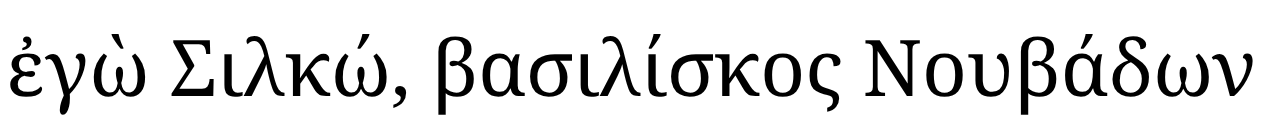
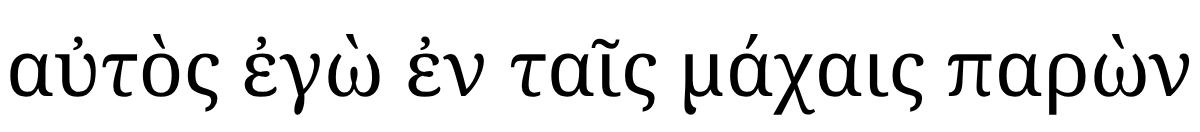
UI DESIGN: the band's order, and a Greek specimen from outside the empire
ORDER. Proto-Norse and Old Malay move ahead of Ancient Greek, so the band runs
Old Tamil, Literary Chinese, Sanskrit, Korean, Proto-Norse, Old Malay, Ancient
Greek, Sabaic, Ge'ez. Greek is the one language on this band the empire also
spoke, and leading with it opened the band on the familiar.

THE GREEK SPECIMEN was africa-04-silko-talmis: Silko's victory inscription in
the temple of Mandulis at Talmis. Silko is a Nobadian king, but the stone is in
Lower Nubia and THE RECORD'S OWN findspot field says where: "inside the
Dodecaschoenus, the strip the Roman empire had held and withdrawn from under
Diocletian." A Greek text from inside the old frontier is not what a band about
the world beyond it is for. Rob caught this.

It is now africa-05-adulis-throne -- Monumentum Adulitanum II, an Aksumite
king's throne inscription at Adulis on the Eritrean Red Sea coast, copied there
by Cosmas Indicopleustes around 520 CE. The specimen reads

    autos ego en tais machais paron

"I myself, present in the battles": a king outside the empire speaking in the
first person, in Greek. That is the argument the band exists to make.

The ordering comment in both files is rewritten rather than left describing a
list that no longer exists. A comment that has stopped being true is worse than
no comment, and this project has been bitten by one before.

All nine images regenerated; the Greek is 400px wide where the old one was 421.
[…]

diff --git a/ui/index.html b/ui/index.html
@@ -2869,15 +2869,15 @@ function viewAbout() {
  * ink comes from the theme and one asset serves both.
  * ------------------------------------------------------------------ */
 const BANNER = [
-  { code: "oty",     doc: "southasia-01-akananuru-149",     chars: 24, from: "சிறுபுன்" , w: 222 },
-  { code: "lzh",     doc: "eastasia-02-hou-hanshu",         chars: 15, from: "至桓帝延熹九年" , w: 394 },
-  { code: "san",     doc: "southasia-05-brihatsamhita",     chars: 30, from: "म्लेच्छा" , w: 258 },
-  { code: "ko",      doc: "eastasia-03-hwangnam-glass",     chars: 18, from: "경주 98호" , w: 301 },
-  { code: "grc",     doc: "africa-04-silko-talmis",         chars: 30, from: "ἐγὼ Σιλκώ" , w: 421 },
-  { code: "xsa",     doc: "arabia-07-cih541",               chars: 30, from: "mlkn w-bn-hw" , w: 294 },
-  { code: "gez",     doc: "africa-06-ezana-rie189",         chars: 30, from: "Wa-takalkū" , w: 274 },
-  { code: "omy",     doc: "seasia-06-kedukan-bukit",        chars: 32, from: "svasti śrī" , w: 305 },
-  { code: "gmq-pro", doc: "scandinavia-05-thorsberg-chape", chars: 26, from: "owlþuþewaz" , w: 253 },
+  { code: "oty",       doc: "southasia-01-akananuru-149",       chars: 24, from: "சிறுபுன்", w: 222 },
+  { code: "lzh",       doc: "eastasia-02-hou-hanshu",           chars: 15, from: "至桓帝延熹九年", w: 394 },
+  { code: "san",       doc: "southasia-05-brihatsamhita",       chars: 30, from: "म्लेच्छा", w: 258 },
+  { code: "ko",        doc: "eastasia-03-hwangnam-glass",       chars: 18, from: "경주 98호", w: 301 },
+  { code: "gmq-pro",   doc: "scandinavia-05-thorsberg-chape",   chars: 26, from: "owlþuþewaz", w: 253 },
+  { code: "omy",       doc: "seasia-06-kedukan-bukit",          chars: 32, from: "svasti śrī", w: 305 },
+  { code: "grc",       doc: "africa-05-adulis-throne",          chars: 30, from: "αὐτὸς ἐγὼ", w: 400 },
+  { code: "xsa",       doc: "arabia-07-cih541",                 chars: 30, from: "mlkn w-bn-hw", w: 294 },
+  { code: "gez",       doc: "africa-06-ezana-rie189",           chars: 30, from: "Wa-takalkū", w: 274 },
 ];
 const BANNER_NATIVE = new Set(["oty", "lzh", "san", "ko", "grc"]);
 const BANNER_H = 44;   // the height ui/build_banner.mjs rendered each specimen at
